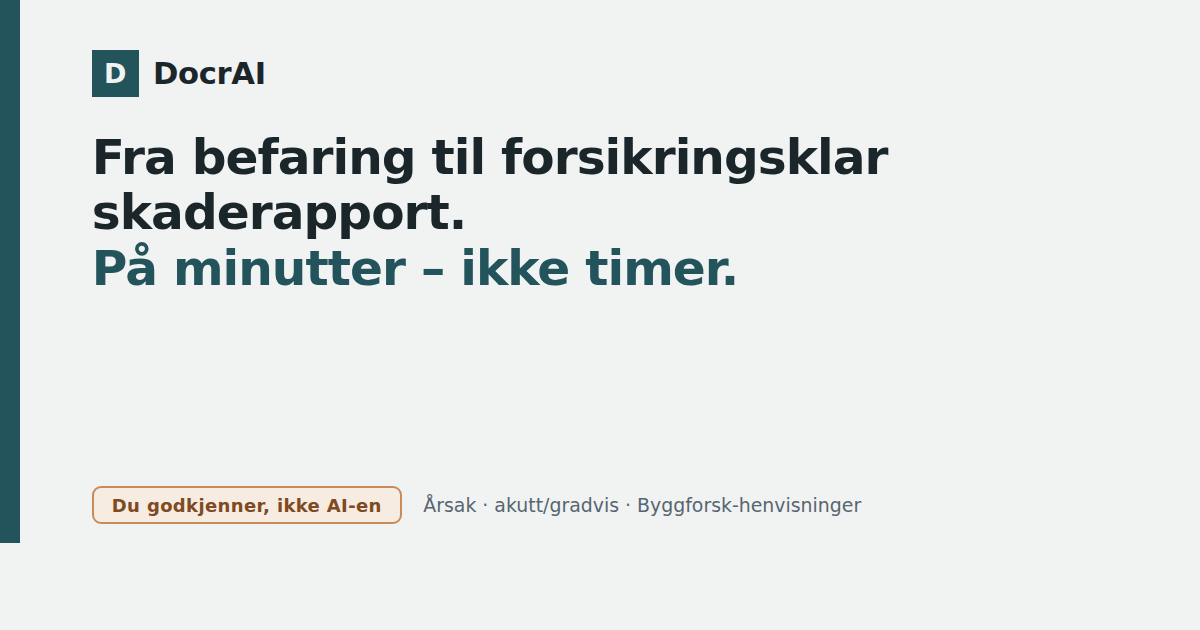
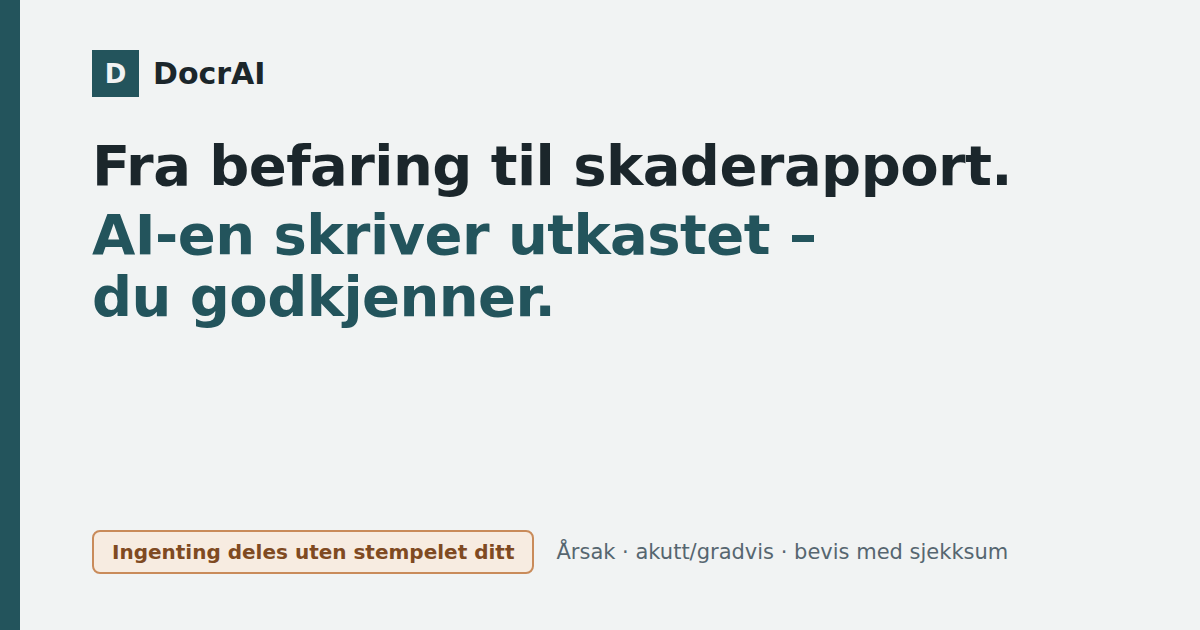
Delingsbilde og forhåndsvisning klar for Messenger
Delingsbildet (og-bilde.png) som Messenger, Facebook og LinkedIn viser for
alle salgssidene sa fortsatt «forsikringsklar skaderapport. På minutter –
ikke timer» og «Byggforsk-henvisninger» — påstandene som ble fjernet fra
sidene i #25/#27. Den mørke stripen stoppet også ved 543 px.

- Nytt bilde (1200 × 630): «Fra befaring til skaderapport. AI-en skriver
  utkastet – du godkjenner.» + «Ingenting deles uten stempelet ditt» og
  «Årsak · akutt/gradvis · bevis med sjekksum». Samme palett, stripe i
  full høyde. Samme fil i explainer/ (dagens docrai.io).
- scripts/lag-og-bilde.mjs lager bildet på nytt med Playwright og stopper
  hvis teksten går utenfor lerretet.
- Alle offentlige sider: og:image:width/height, og:image:alt og
  og:site_name, så forhåndsvisningen vises allerede første gang lenken
  deles. Bilde-URL-en får ?v=2 så Messenger ikke viser det bufrede bildet.
- e2e-headere: 9 nye sjekker (tagger per side + at bildet er PNG
  1200 × 630). 103 grønne.

Claude-Session: https://claude.ai/code/session_01XY2dJwHFFmDan4RVPXqUGT

diff --git a/explainer/index.html b/explainer/index.html
@@ -14,11 +14,14 @@
 <meta property="og:title" content="DocrAI — Fra befaring til skaderapport">
 <meta property="og:description" content="Snakk deg gjennom befaringen. Få et AI-utkast til skaderapport — du kontrollerer og godkjenner før noe deles.">
 <meta property="og:url" content="https://docrai.io/">
-<meta property="og:image" content="https://docrai.io/og-bilde.png">
+<meta property="og:image" content="https://docrai.io/og-bilde.png?v=2">
+<meta property="og:image:width" content="1200">
+<meta property="og:image:height" content="630">
+<meta property="og:image:alt" content="DocrAI – Fra befaring til skaderapport. AI-en skriver utkastet, du godkjenner.">
 <meta name="twitter:card" content="summary_large_image">
 <meta name="twitter:title" content="DocrAI — Fra befaring til skaderapport">
 <meta name="twitter:description" content="Snakk deg gjennom befaringen. Få et AI-utkast til skaderapport — du kontrollerer og godkjenner før noe deles.">
-<meta name="twitter:image" content="https://docrai.io/og-bilde.png">
+<meta name="twitter:image" content="https://docrai.io/og-bilde.png?v=2">
 
 <script type="application/ld+json">
 {

diff --git a/apps/api/src/om-page.html b/apps/api/src/om-page.html
@@ -10,7 +10,11 @@
 <meta property="og:title" content="DocrAI – Fra befaring til skaderapport du godkjenner" />
 <meta property="og:description" content="Snakk deg gjennom befaringen – AI-en skriver utkastet med foreslått årsak. Du kontrollerer, korrigerer og godkjenner." />
 <meta property="og:type" content="website" />
-<meta property="og:image" content="/og-bilde.png" />
+<meta property="og:image" content="/og-bilde.png?v=2" />
+<meta property="og:image:width" content="1200" />
+<meta property="og:image:height" content="630" />
+<meta property="og:image:alt" content="DocrAI – Fra befaring til skaderapport. AI-en skriver utkastet, du godkjenner." />
+<meta property="og:site_name" content="DocrAI" />
 <meta property="og:locale" content="nb_NO" />
 <meta name="twitter:card" content="summary_large_image" />
 <link rel="canonical" href="/om" />

diff --git a/apps/api/src/vilkar-page.html b/apps/api/src/vilkar-page.html
@@ -9,7 +9,11 @@
 <meta property="og:title" content="Vilkår for bruk – DocrAI" />
 <meta property="og:description" content="Vilkår for bruk av DocrAI i pilotfasen: hva tjenesten er, takstpersonens ansvar for rapporten, bruk, priser og oppsigelse." />
 <meta property="og:type" content="website" />
-<meta property="og:image" content="/og-bilde.png" />
+<meta property="og:image" content="/og-bilde.png?v=2" />
+<meta property="og:image:width" content="1200" />
+<meta property="og:image:height" content="630" />
+<meta property="og:image:alt" content="DocrAI – Fra befaring til skaderapport. AI-en skriver utkastet, du godkjenner." />
+<meta property="og:site_name" content="DocrAI" />
 <meta property="og:locale" content="nb_NO" />
 <meta name="twitter:card" content="summary_large_image" />
 <link rel="icon" type="image/png" href="/favicon.png" />

diff --git a/apps/api/src/personvern-page.html b/apps/api/src/personvern-page.html
@@ -11,7 +11,11 @@
 <meta property="og:title" content="Personvern – DocrAI" />
 <meta property="og:description" content="Slik behandler DocrAI personopplysninger i dag: cookiefrie nettsider, lokal lagring i appen, AI-behandling hos Google uten EU/EØS-avtale ennå, og dine rettigheter." />
 <meta property="og:type" content="website" />
-<meta property="og:image" content="/og-bilde.png" />
+<meta property="og:image" content="/og-bilde.png?v=2" />
+<meta property="og:image:width" content="1200" />
+<meta property="og:image:height" content="630" />
+<meta property="og:image:alt" content="DocrAI – Fra befaring til skaderapport. AI-en skriver utkastet, du godkjenner." />
+<meta property="og:site_name" content="DocrAI" />
 <meta property="og:locale" content="nb_NO" />
 <meta name="twitter:card" content="summary_large_image" />
 <style>

diff --git a/apps/api/src/faq-page.html b/apps/api/src/faq-page.html
@@ -11,7 +11,11 @@
 <meta property="og:title" content="Ofte stilte spørsmål – DocrAI" />
 <meta property="og:description" content="Svar på de vanligste spørsmålene om DocrAI: ansvar og godkjenning, personvern og hvor dataene behandles, pris, offline-bruk og deling av rapporter." />
 <meta property="og:type" content="website" />
-<meta property="og:image" content="/og-bilde.png" />
+<meta property="og:image" content="/og-bilde.png?v=2" />
+<meta property="og:image:width" content="1200" />
+<meta property="og:image:height" content="630" />
+<meta property="og:image:alt" content="DocrAI – Fra befaring til skaderapport. AI-en skriver utkastet, du godkjenner." />
+<meta property="og:site_name" content="DocrAI" />
 <meta property="og:locale" content="nb_NO" />
 <meta name="twitter:card" content="summary_large_image" />
 <style>

diff --git a/apps/api/src/demo-page.html b/apps/api/src/demo-page.html
@@ -12,7 +12,11 @@
 <meta property="og:title" content="DocrAI – Saksunderlag på sekunder" />
 <meta property="og:description" content="Skriv inn en adresse og se kart, matrikkel, bygningstype, terreng og vær hentet live fra åpne offentlige kilder." />
 <meta property="og:type" content="website" />
-<meta property="og:image" content="/og-bilde.png" />
+<meta property="og:image" content="/og-bilde.png?v=2" />
+<meta property="og:image:width" content="1200" />
+<meta property="og:image:height" content="630" />
+<meta property="og:image:alt" content="DocrAI – Fra befaring til skaderapport. AI-en skriver utkastet, du godkjenner." />
+<meta property="og:site_name" content="DocrAI" />
 <meta property="og:locale" content="nb_NO" />
 <meta name="twitter:card" content="summary_large_image" />
 <style>

diff --git a/apps/api/src/eksempelrapport-page.html b/apps/api/src/eksempelrapport-page.html
@@ -12,7 +12,11 @@
 <meta property="og:title" content="DocrAI – Eksempel på ferdig skaderapport" />
 <meta property="og:description" content="Slik ser en ferdig, godkjent DocrAI-skaderapport ut for mottakeren. Oppdiktet eksempelsak." />
 <meta property="og:type" content="website" />
-<meta property="og:image" content="/og-bilde.png" />
+<meta property="og:image" content="/og-bilde.png?v=2" />
+<meta property="og:image:width" content="1200" />
+<meta property="og:image:height" content="630" />
+<meta property="og:image:alt" content="DocrAI – Fra befaring til skaderapport. AI-en skriver utkastet, du godkjenner." />
+<meta property="og:site_name" content="DocrAI" />
 <meta property="og:locale" content="nb_NO" />
 <meta name="twitter:card" content="summary_large_image" />
 <!--

diff --git a/apps/api/src/kontakt-page.html b/apps/api/src/kontakt-page.html
@@ -11,7 +11,11 @@
 <meta property="og:title" content="Snakk med oss – DocrAI" />
 <meta property="og:description" content="Book et kort introduksjonsmøte om DocrAI, eller ta kontakt på e-post – vi svarer innen én virkedag." />
 <meta property="og:type" content="website" />
-<meta property="og:image" content="/og-bilde.png" />
+<meta property="og:image" content="/og-bilde.png?v=2" />
+<meta property="og:image:width" content="1200" />
+<meta property="og:image:height" content="630" />
+<meta property="og:image:alt" content="DocrAI – Fra befaring til skaderapport. AI-en skriver utkastet, du godkjenner." />
+<meta property="og:site_name" content="DocrAI" />
 <meta property="og:locale" content="nb_NO" />
 <meta name="twitter:card" content="summary_large_image" />
 <style>

diff --git a/presentation/kundereisen.html b/presentation/kundereisen.html
@@ -6,7 +6,11 @@
 <meta property="og:title" content="DocrAI – Kundereisen" />
 <meta property="og:description" content="Fra befaring til godkjent skaderapport, steg for steg." />
 <meta property="og:type" content="website" />
-<meta property="og:image" content="/og-bilde.png" />
+<meta property="og:image" content="/og-bilde.png?v=2" />
+<meta property="og:image:width" content="1200" />
+<meta property="og:image:height" content="630" />
+<meta property="og:image:alt" content="DocrAI – Fra befaring til skaderapport. AI-en skriver utkastet, du godkjenner." />
+<meta property="og:site_name" content="DocrAI" />
 <meta property="og:locale" content="nb_NO" />
 <meta name="twitter:card" content="summary_large_image" />
 <style>
